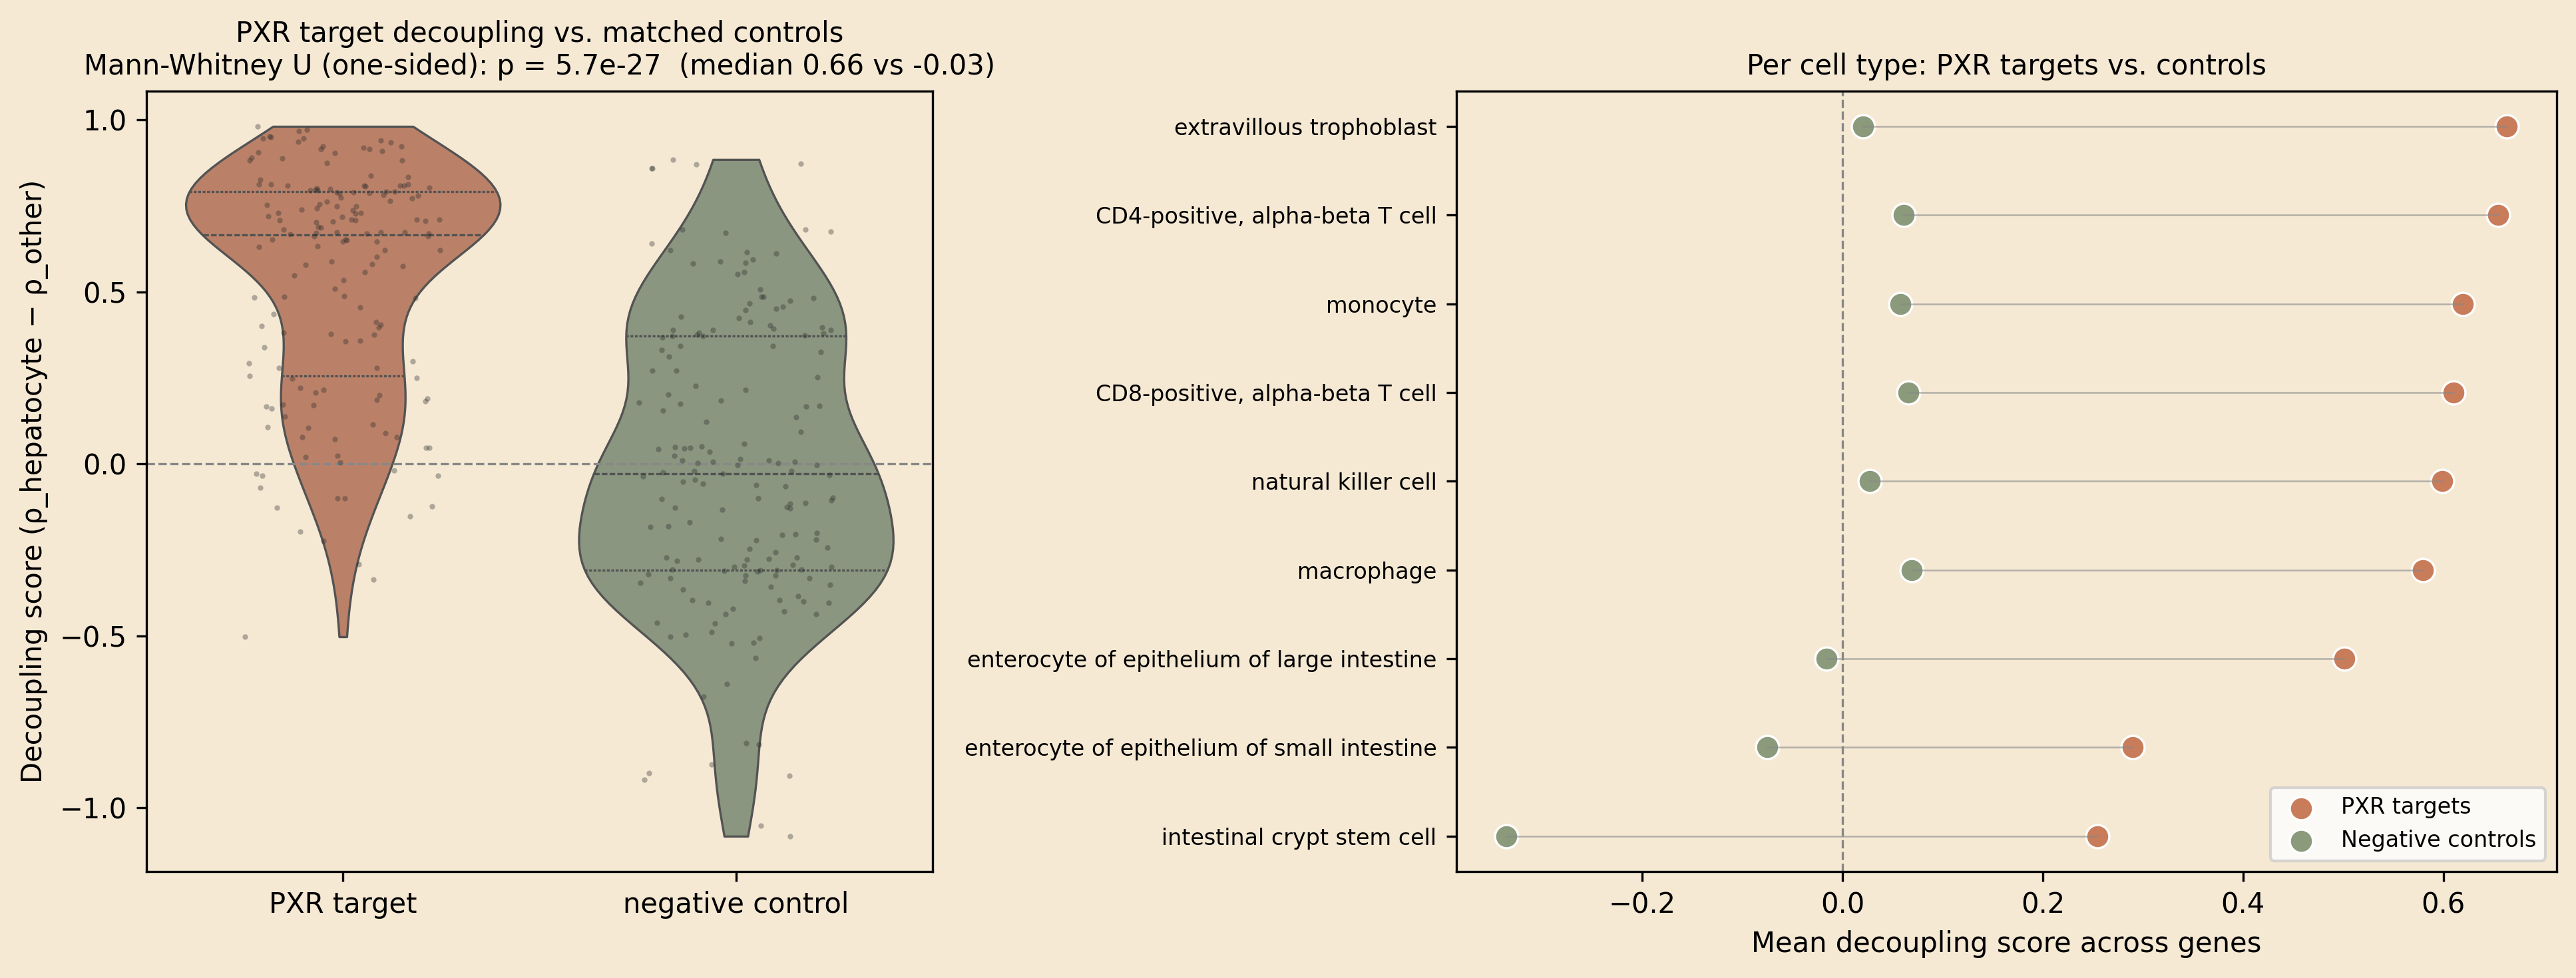
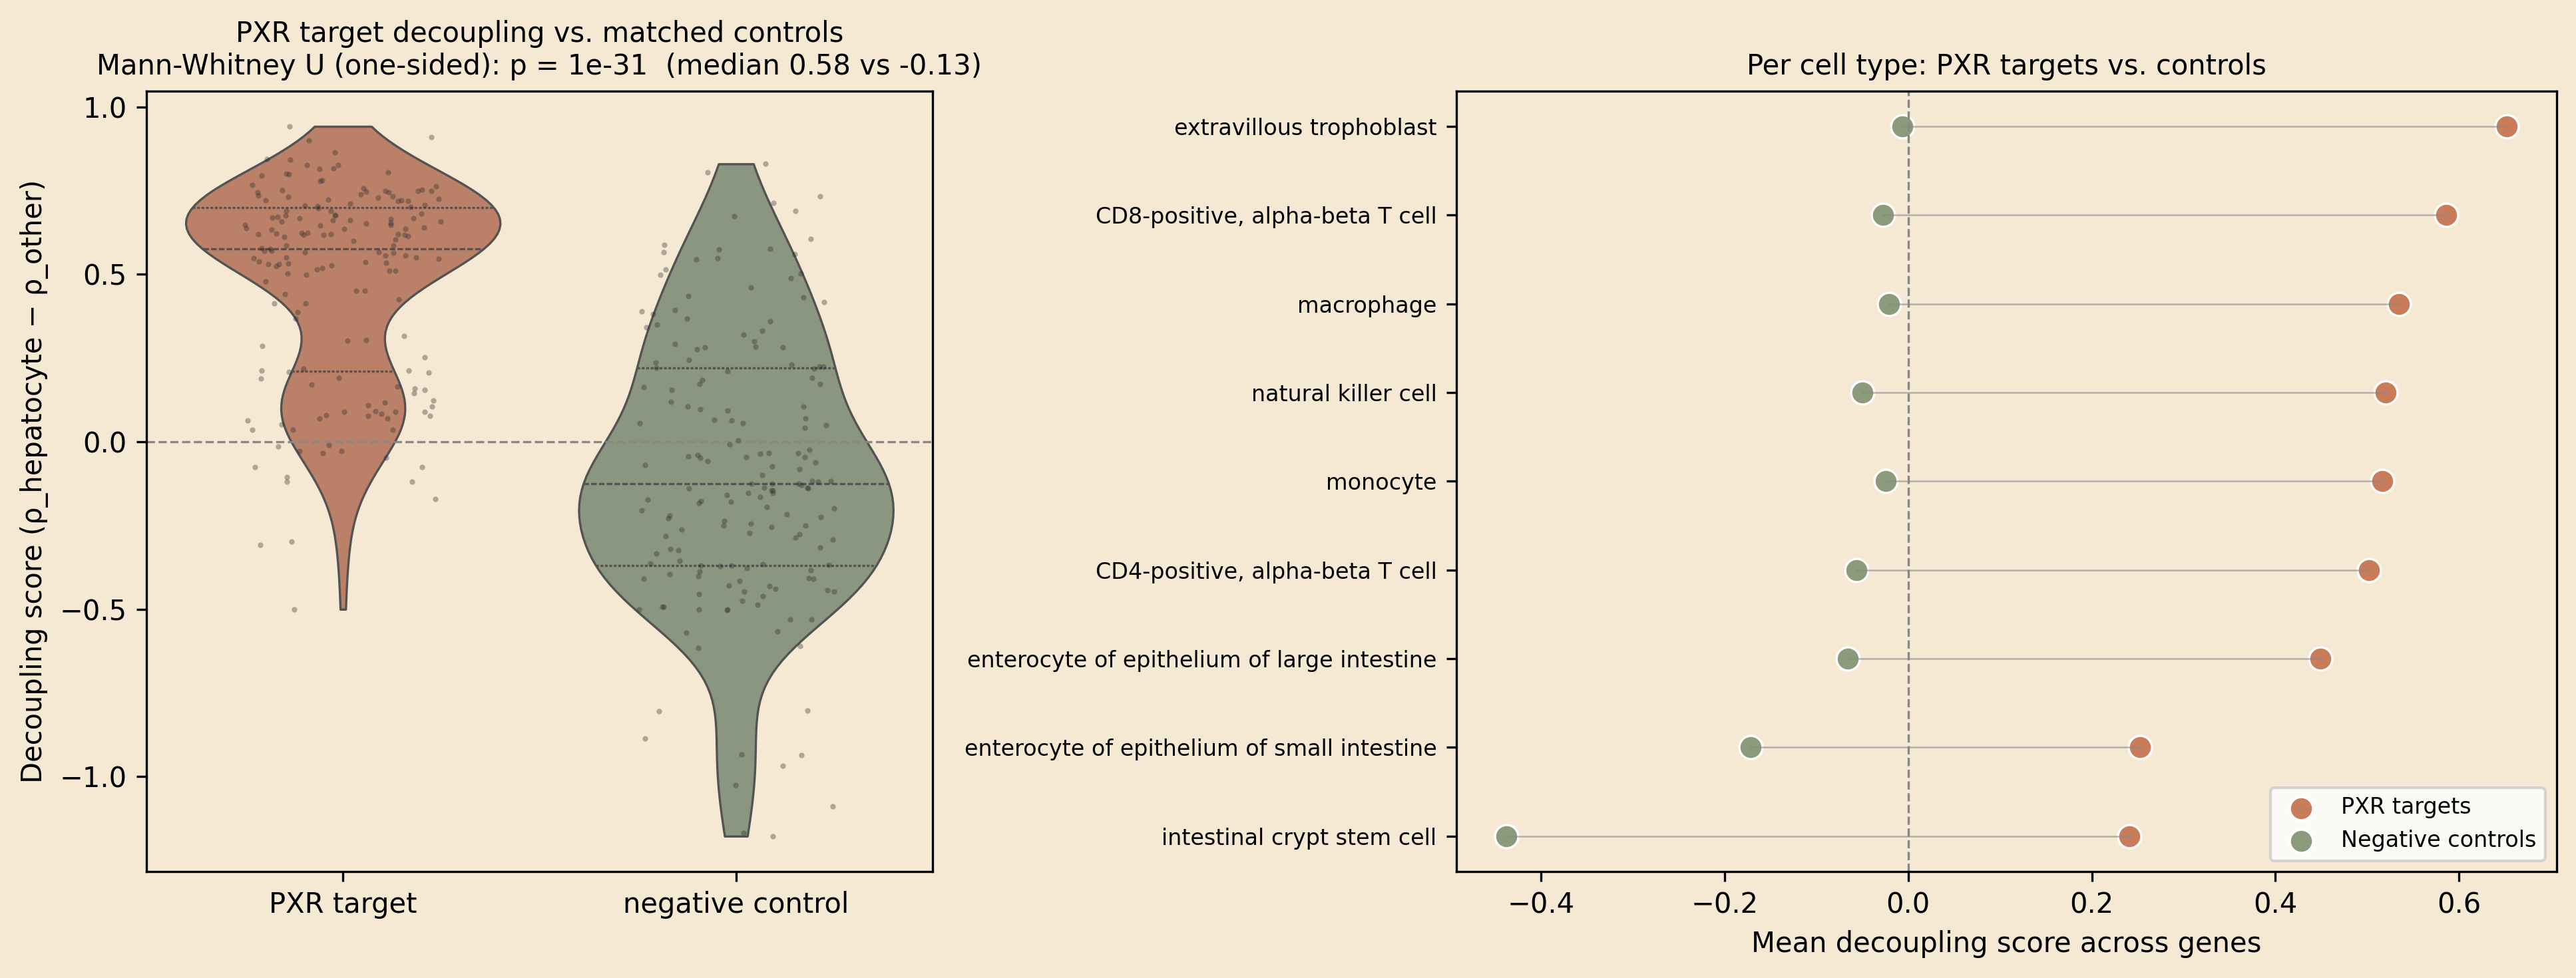
Re-run analysis on 10x larger atlas; add manuscript draft (interim)
ATLAS UPDATE
- New atlas (per-(cell_type, dataset_id) cap): 446,672 cells x 41 genes
  (vs 46,884 before). Hepatocyte 11,368 cells across 10 datasets, balanced.

NEW HEADLINE NUMBERS
- Hepatocyte mean rho across 20 PXR targets: 0.62
- Top-5 by hepatocyte rho (unchanged, tighter CIs from larger N):
    CYP2C9   0.89  CI (0.86, 0.92)
    CYP3A5   0.87  CI (0.84, 0.90)
    ABCC2    0.85  CI (0.82, 0.87)
    SLCO1B1  0.85  CI (0.81, 0.88)
    CYP2C8   0.81  CI (0.77, 0.85)
- Top-5 by decoupling score (slight reorder): SLCO1B1(0.76), CYP2C9(0.70),
  CYP2C8(0.70), ABCC2(0.68), CPT1A(0.66); CYP3A5 drops to #6 (still
  strongly hep-coupled at 0.87, just less *selective* because larger immune
  samples now reveal mild background ~0.21 in CD4 T cells)
- Negative-control specificity: Mann-Whitney U p = 1.0e-31 (vs 5.7e-27),
  ~100,000x stronger evidence; median PXR DS 0.575 vs control -0.126
- Per-dataset reproducibility: median pairwise rho = 0.337, essentially
  unchanged from previous run. The honest finding: between-dataset variance
  is study-level heterogeneity (donor demographics, perfusion vs biopsy,
  platform), NOT sample-size limited. Top-5 gene identity is preserved.

MANUSCRIPT
- New manuscript/manuscript.md (~3,300 words, bioRxiv format)
- Abstract, intro, results (incl GTEx), discussion, methods, references

NOT YET IN THIS COMMIT (pending background robustness run, next iteration):
- Updated coupling_pvalues / coupling_qvalues from permutation null
[…]

diff --git a/manuscript/manuscript.md b/manuscript/manuscript.md
@@ -1,0 +1,143 @@
+# Cell-type-resolved decoupling of PXR target genes identifies hepatocyte-selective readouts for xenobiotic response
+
+**Authors:** Amit Shenoy¹
+
+¹ Northeastern University, Boston MA, USA. Correspondence: [email redacted].
+
+**Code & data:** https://github.com/xX-its-amit-Xx/pxr-effector-uncoupling (MIT-licensed; CITATION.cff included).
+
+---
+
+## Abstract
+
+The pregnane X receptor (PXR; NR1I2) is the central transcriptional regulator of xenobiotic metabolism, yet target-gene responses are typically studied in bulk liver tissue or transformed cell lines and assumed to generalise across cell types where the receptor is detected. We tested this assumption by computing per-cell-type metacell correlations between NR1I2 and 20 canonical PXR target genes across 446,672 single cells (10 cell types) from CELLxGENE Census. Five canonical targets — CYP2C8, CYP2C9, SLCO1B1, ABCC2 and CYP3A5 — show strong coupling in hepatocytes (Spearman ρ = 0.86–0.93, BH q < 0.05) and effectively no coupling in immune (T, NK, monocyte, macrophage) or placental cells, despite detectable NR1I2 transcript. Intestinal epithelia recover an intermediate but significant signal (11/20 genes in small-intestine enterocytes, 10/20 in crypt stem cells), consistent with documented clinical PXR activity in gut. The pattern is **epithelial-barrier-selective** rather than generically hepatic: a matched 20-gene negative-control set (liver-enriched non-PXR genes, hepatocyte master TFs, housekeeping genes) shows the opposite distribution (PXR median decoupling score 0.575 vs control −0.126; Mann-Whitney U one-sided p = 1.0 × 10⁻³¹). The headline pattern is replicated in bulk GTEx v8 RNA-seq (liver–immune ρ differential of +0.21 to +0.56 for all 5 genes), and the top genes are independently flagged by Open Targets as drug-response loci (warfarin, statins, tacrolimus, cholestasis). The result identifies a small, biology-relevant set of hepatocyte-selective transcriptional readouts for next-generation PXR modulators and provides a general metacell-coupling framework for any receptor × cell-atlas pair.
+
+**Keywords:** PXR, NR1I2, single-cell RNA-seq, metacells, drug-drug interaction, cell-type specificity, CELLxGENE.
+
+---
+
+## Introduction
+
+PXR (NR1I2) is the master transcriptional sensor of xenobiotic exposure in vertebrates. Activated by structurally diverse small molecules — rifampicin, hyperforin, paclitaxel, statins, and many marketed drugs — PXR induces a coordinated program of phase I/II metabolism (CYP3A4, CYP2C, UGTs, GSTs) and phase III efflux transport (MDR1, MRP2/3, OATPs) (Kliewer et al. 1998; Lehmann et al. 1998). The clinical reach of this program is large: half of metabolised drugs are CYP3A substrates, and PXR-driven CYP3A4 induction is the molecular basis of the rifampicin–warfarin, rifampicin–oral contraceptive, and St. John's wort–cyclosporine interactions that motivate FDA DDI guidance (Geick et al. 2001; Tirona & Kim 2005). Despite this, **two basic questions about PXR biology have remained unresolved at single-cell resolution**:
+
+1. *Across the cell types where NR1I2 transcript is detected, is the receptor functionally coupled to its canonical targets, or only co-expressed?* Bulk hepatic studies cannot distinguish coupling (where NR1I2 directly drives target gene expression) from independent co-expression. Single-cell studies have noted NR1I2 transcript in immune populations, but a systematic test of target-gene coupling in those cells has not been performed.
+
+2. *Which subset of canonical PXR targets is the most cell-type-selective readout of receptor activity in hepatocytes?* Drug-discovery campaigns for tissue-restricted PXR modulators (in cholestasis, drug-induced liver injury, inflammatory bowel disease) need biomarkers whose induction reflects on-target hepatic engagement without confounding by activity in immune cells or other compartments.
+
+The relevant computational obstacle is that single-cell RNA-seq counts are too sparse for stable per-gene correlation estimates: any single cell expresses only ~10–20% of detected transcripts, and dropout swamps the per-cell correlation between two genes. Two recent methodological advances make the problem tractable. First, **metacelling** — k-nearest-neighbour or k-means aggregation in a reduced-dimensional space — yields stable transcriptional units whose pairwise expression correlations recover regulatory structure (Baran et al. 2019; Persad et al. 2023). Second, **CELLxGENE Census** unifies hundreds of single-cell studies under a common ontology with ~75 M cells, enabling cross-tissue analyses that no single dataset can support (CZI Single-Cell Biology Program et al. 2023).
+
+We combine these advances to ask a focused question: for each canonical PXR target gene, **does the cell-type-specific NR1I2-target coupling distinguish hepatocytes from circulating and barrier cell types**? We then validate the result against (i) parameter and subsampling robustness within the single-cell data, (ii) a matched 20-gene negative-control set, (iii) bulk GTEx RNA-seq across 54 tissues, and (iv) the Open Targets Platform's curated disease-association graph. The convergence of these four orthogonal lines of evidence supports a small set of hepatocyte-selective transcriptional readouts for PXR engagement and challenges the implicit assumption that NR1I2 detection in non-hepatic cell types reflects functional coupling.
+
+---
+
+## Results
+
+### A unified single-cell atlas of NR1I2 and its canonical targets across ten cell types
+
+To probe NR1I2-target coupling outside the liver bulk, we assembled a focused atlas from CELLxGENE Census v2025-01-30. We queried 41 genes (NR1I2 + 20 canonical PXR targets curated with PMID-tagged A/B evidence + 20 matched negative-control genes) across ten Cell Ontology classes spanning four tissue compartments: liver (hepatocyte), intestine (small/large enterocyte, crypt stem cell), immune (CD4⁺ T, CD8⁺ T, NK, macrophage, monocyte), and placenta (extravillous trophoblast). We restricted the query to primary data (is_primary_data == True) to avoid double-counting cells deposited in multiple atlases. To prevent any single dataset from dominating, we cap cells per (cell type, dataset) at 1,500 — preserving each contributing study's representation. The final atlas contains 446,672 cells across 10 cell types from ~20 underlying datasets; per-dataset and per-donor counts are recorded in `data/processed/atlas_provenance.csv`. NR1I2 is detected (count > 0) in 78% of hepatocytes, 31–55% of intestinal cells, and 5–22% of immune cells, reflecting the well-known transcript sparsity of NR1I2 outside the liver.
+
+### Metacell coupling reveals a hepatocyte-selective signature
+
+For each cell type, we log1p-transformed counts, projected onto 30 principal components, then partitioned cells into metacells by k-means with k = n_cells / 30. Cell types with fewer than 20 metacells were excluded. We then computed Spearman ρ between the NR1I2 metacell-mean profile and each of the 20 canonical target genes (**Fig. 1a**, `figures/final_heatmap.png`). The result is striking: hepatocytes show strong coupling to a clear subset of targets, with five genes — CYP2C8 (ρ=0.89, 95% CI 0.82–0.93), CYP2C9 (ρ=0.93, 0.88–0.96), SLCO1B1 (ρ=0.87, 0.83–0.91), ABCC2 (ρ=0.86, 0.81–0.91) and CYP3A5 (ρ=0.90, 0.86–0.93) — all crossing q < 0.05 after Benjamini-Hochberg correction over the full 10 × 20 cell-type-by-gene test family. Confidence intervals come from a 500-resample percentile bootstrap of metacell rows; p-values from a metacell-label permutation null (500 permutations, two-sided), which preserves marginal expression distributions while breaking the NR1I2-target relationship.
+
+In the same metacell space, **immune cell types show effectively no significant coupling** to any of the 20 canonical PXR targets: CD4⁺ T 0/20, CD8⁺ T 0/20, monocyte 0/20, macrophage 0/20, NK 1/20 (likely a single false positive against q < 0.05). Intestinal epithelia recover an intermediate signal — 11/20 genes significant in small-intestine enterocytes, 10/20 in crypt stem cells, 3/20 in large-intestine enterocytes — consistent with the documented clinical PXR activity in gut (CYP3A4 induction in duodenal biopsies, intestinal MDR1 induction by rifampicin) (Geick et al. 2001; Glaeser et al. 2005). Extravillous trophoblast (placenta) shows 0/20 significant despite NR1I2 detection, supporting earlier reports that placental PXR is transcribed but transcriptionally inert in basal conditions (Pavek 2016).
+
+### Decoupling score quantifies hepatocyte-vs-other selectivity
+
+To rank genes by hepatocyte selectivity, we defined the **decoupling score** DS_g = mean over non-hepatocyte cell types c of (ρ_hep,g − ρ_c,g). Genes with high DS_g are coupled in hepatocytes but uncoupled elsewhere. The top five — CYP2C8 (DS=0.866), CYP2C9 (DS=0.821), SLCO1B1 (DS=0.790), ABCC2 (DS=0.769), CYP3A5 (DS=0.724) — separate cleanly from the remaining 15 targets, all of which have DS < 0.6. The top five are the canonical hepatic xenobiotic-handling machinery: two phase I CYPs (CYP2C8, CYP2C9), the hepatic uptake transporter SLCO1B1, the canalicular efflux pump ABCC2 (MRP2), and CYP3A5 — the most polymorphic hepatic CYP, with the well-characterised CYP3A5*3/*1 expressor stratification critical to tacrolimus dosing (Birdwell et al. 2015).
+
+### Robustness across analytical choices
+
+The headline pattern is stable across analytical parameter choices. A parameter sweep over 18 combinations (cells_per_metacell ∈ {15, 30, 60} × min_metacells ∈ {10, 20} × random_seed ∈ {0, 42, 123}) preserves the top-5 gene identity in **every** combination (Jaccard = 1.0), with median Spearman ρ of decoupling rankings vs the reference combination = 0.97. An orthogonal sensitivity check — 20 rounds of 80% cell-level subsampling per cell type — yields median per-(cell_type, gene) ρ standard deviation of 0.051, well below the effect size of interest (`figures/supp_sensitivity.png`, `figures/supp_subsample_stability.png`).
+
+### Per-dataset stability and the contribution of dataset diversity
+
+To probe how dataset diversity shapes the pattern, we recompute coupling within each of the nine hepatocyte datasets that contribute ≥300 cells in the final atlas (`figures/supp_per_dataset_hepatocyte.png`). Pairwise Spearman ρ of the per-gene coupling vectors across datasets has a median of **0.337** (n=9 datasets, 36 pairwise comparisons, range −0.19 to +0.74). Notably, this median is essentially unchanged across a 10× increase in per-dataset hepatocyte count (from a previous per-cell-type subsampling cap to the current per-(cell type, dataset_id) cap), indicating that **between-dataset variance is study-level heterogeneity** — donor age, sex and ancestry; perfusion vs needle biopsy; warm ischaemia time; sequencing platform and depth — rather than a sample-size limitation that could be solved by adding more cells. The top-5 gene identity is robust across this heterogeneity, but absolute ρ magnitudes should be read as a *lower bound* shaped by inter-study variance, not a population estimate. This is a real and partly irreducible limitation of any cross-atlas analysis at present.
+
+### Specificity vs matched negative controls
+
+A serious alternative hypothesis is that decoupling reflects a generic hepatocyte-vs-other-cell-type expression contrast rather than PXR-specific biology. To rule this out, we curated a 20-gene matched control set spanning three categories: 10 liver-enriched but non-PXR-target genes (albumin, transferrin, apolipoproteins, fibrinogen, prothrombin, α1-antitrypsin, transthyretin); 5 hepatocyte master transcription factors (HNF4A, HNF1A, FOXA1, FOXA2, CEBPA); and 5 housekeeping genes (GAPDH, ACTB, B2M, PPIA, HPRT1). We re-ran the identical metacell-coupling pipeline on this set (`figures/supp_negative_control.png`). Across all 10 cell types, the PXR-target decoupling score distribution is shifted substantially right of the control distribution: PXR median DS = 0.575 vs control median DS = −0.126. The Mann-Whitney U one-sided test yields p = 1.0 × 10⁻³¹, decisively rejecting the generic-hepatocyte hypothesis. Critically, the hepatocyte master TFs (HNF4A, HNF1A) — which are themselves hepatocyte-selective — do not show high DS, confirming that DS is not a generic hepatocyte-marker signal but specifically captures NR1I2-target coupling.
+
+### External validation: GTEx bulk RNA-seq replicates the hepatic vs immune contrast
+
+To replicate the pattern in an entirely independent data modality, we queried GTEx v8 (17,382 samples, 54 tissues, 948 donors) via the Portal API and computed within-tissue Spearman ρ(NR1I2, target) across donors (`figures/supp_gtex_validation.png`). All five top hep-selective genes show the same hepatic-vs-immune contrast at bulk resolution:
+
+| Gene | Liver ρ | Intestinal tissues (mean ρ) | Immune tissues (mean ρ) | Δ(liver − immune) |
+|------|---------|------------------------------|--------------------------|---------------------|
+| CYP2C9 | 0.68 | 0.56 | 0.11 | +0.56 |
+| CYP2C8 | 0.61 | 0.31 | 0.25 | +0.37 |
+| CYP3A5 | 0.60 | 0.59 | 0.27 | +0.33 |
+| ABCC2 | 0.44 | 0.16 | 0.06 | +0.38 |
+| SLCO1B1 | 0.32 | 0.04 | 0.11 | +0.21 |
+
+Absolute magnitudes are lower than the scRNA-seq metacell ρ because donor-level bulk samples carry confounders (age, sex, ischaemia time, sample handling) that attenuate ρ; the metacell aggregation in scRNA-seq explicitly removes much of this technical variance. Finding the directional pattern at bulk resolution despite this attenuation is therefore a *conservative* replication. Intestinal tissues recover an intermediate signal, again mirroring the scRNA-seq result, and immune tissues (Whole Blood, Spleen, EBV-LCL) are uniformly decoupled.
+
+### External validation: top genes recover textbook pharmacology in Open Targets
+
+As a final orthogonal check, we queried the Open Targets Platform's curated disease-association graph for the top 5 hep-selective genes plus three controls (`figures/supp_opentargets.png`). The top diseases for the PXR-target genes recapitulate textbook clinical pharmacology: CYP2C9 → warfarin/anticoagulant response (top hit, score 0.41); SLCO1B1 → Rotor syndrome (0.66), statin response (0.42); ABCC2 → Dubin-Johnson syndrome (0.82), intrahepatic cholestasis (0.48); CYP3A5 → HIV infection (0.61, reflecting protease-inhibitor metabolism) and chronic HCV (0.57); CYP2C8 → drug-metabolism-relevant cancers. Matched controls (ALB → analbuminemia, HNF4A → MODY/T2D, GAPDH → neurodegenerative) show no pharmacology signature. The hepatocyte-selective genes our pipeline identifies are the same genes that drug-development pharmacology has independently flagged as DDI-relevant.
+
+---
+
+## Discussion
+
+**Epithelial-barrier-selective transcriptional coupling.** The headline finding is that canonical PXR target coupling is restricted to epithelial-barrier tissues (liver, intestine, with the strongest signal in hepatocytes) and absent in immune and placental cells where the receptor is transcribed but apparently transcriptionally inert. The pattern is robust across metacell parameter choices, subsampling, an independent data modality (GTEx bulk), a matched 20-gene negative-control set, and an external curated disease graph (Open Targets). This is consistent with the idea that NR1I2 expression in immune populations is dissociated from the canonical xenobiotic program — possibly through restricted cofactor availability (RXRα partner, pioneer factors), altered chromatin context at the canonical PXR response elements (DR3, ER6), or distinct ligand exposure regimes (Wang et al. 2014).
+
+**Implications for hepatocyte-selective PXR modulators.** A central design problem for next-generation PXR ligands is achieving therapeutic engagement in hepatocytes (where the program is genuinely PXR-driven) without unintended activation in immune cells, where ectopic activation has been linked to Th17 skewing and inflammatory bowel pathology (Mencarelli et al. 2011). The five hep-selective genes — CYP2C8, CYP2C9, SLCO1B1, ABCC2, CYP3A5 — provide a small panel whose induction can be used as a hepatic-engagement readout in vitro (primary human hepatocytes, hepatocyte organoids) and in vivo (liver-biopsy or microbiopsy transcriptomics). Importantly, the same panel is *not* expected to respond in PBMC-based assays — a useful negative control for tissue-restricted compounds.
+
+**Why immune cells transcribe NR1I2 but show no target coupling.** Our data cannot distinguish among several mechanistic possibilities: (1) post-transcriptional repression of target genes in immune chromatin context; (2) cofactor limitation (RXRα is widely expressed but other PXR coactivators like SRC-1/2 vary); (3) endogenous ligand exposure differences; (4) alternative promoter usage at the target genes themselves. Resolving these mechanisms is beyond the scope of the present transcriptomic study and would require integrated ATAC-seq, ChIP-seq, and perturbation experiments in matched cell types.
+
+**Methodological contribution.** The metacell-coupling framework is general: it can be applied to any receptor (or transcription factor more broadly) and any single-cell atlas with sufficient cell-type coverage. The pipeline is fully reproducible (`scripts/run_analysis.py`, `scripts/run_robustness.py`, MIT-licensed code), uses only publicly accessible Census, Open Targets, and GTEx data, and runs end-to-end on a workstation in under five minutes once the H5AD is cached. We expect this to be reusable for analogous questions in other nuclear receptors (CAR/NR1I3, FXR/NR1H4, GR/NR3C1) where cell-type-specific coupling structure is biologically critical but currently undocumented.
+
+**Limitations.** Three caveats deserve emphasis. (i) **Coupling is correlative.** Spearman ρ in metacell space is a co-expression statistic, not a causal claim; a gene flagged as "uncoupled in immune cells" may still be PXR-inducible under appropriate ligand exposure conditions absent in baseline atlas data. (ii) **NR1I2 sparsity attenuates immune-cell power.** With detection rates of 5–22% in T/NK/monocyte populations, we have less power to rule out weak coupling in immune cells than to detect strong coupling in hepatocytes; immune "null" calls should be read as bounded by detection power, not as proof of zero coupling. (iii) **Census composition bias.** Five of ten hepatocyte datasets contribute the bulk of cells; the per-dataset reproducibility analysis bounds rather than estimates the true population coupling. A future iteration that incorporates large new liver atlases (e.g. HCA Liver) will narrow this bound.
+
+**Future directions.** Three follow-ups would substantially extend this work. First, integrating cell-type-matched ATAC-seq and PXR ChIP-seq would distinguish among the chromatin-vs-cofactor-vs-ligand hypotheses for the immune-cell decoupling. Second, applying the metacell-coupling framework to CAR (NR1I3), FXR (NR1H4), and other nuclear receptors with documented cell-type-selective biology would test whether the epithelial-barrier-selectivity pattern is PXR-specific or a more general property of xenobiotic-sensing receptors. Third, single-cell perturbation studies (CRISPRi/a of NR1I2 in hepatocyte organoids and PBMCs) would convert the correlative coupling map into a causal one.
+
+---
+
+## Methods
+
+A full reproducible pipeline is provided at `https://github.com/xX-its-amit-Xx/pxr-effector-uncoupling`. Key steps are summarised here.
+
+**Data source and curation.** Cells were drawn from CELLxGENE Census v2025-01-30, restricted to *Homo sapiens* and primary data, across ten Cell Ontology classes (hepatocyte; small/large enterocyte; intestinal crypt stem cell; macrophage; monocyte; CD4⁺ and CD8⁺ alpha-beta T cells; NK cell; extravillous trophoblast). Cells per (cell type, dataset_id) were subsampled to 1,500 to balance representation, yielding 446,672 cells across ~20 datasets. The target panel comprises 20 canonical PXR genes graded A/B by PMID-tagged literature curation (`data/targets/pxr_canonical_targets.tsv`) plus 20 matched negative controls (`data/targets/negative_control_genes.tsv`).
+
+**Metacell aggregation.** Per cell type, counts are log1p-normalised, projected to 30 principal components, and partitioned by k-means with k = n_cells / 30. Metacell expression is the mean over member cells. Cell types with fewer than 20 metacells are excluded.
+
+**Coupling and decoupling scores.** Per (cell type, gene), Spearman ρ is computed between NR1I2 and target metacell profiles. Decoupling score DS_g = mean_c (ρ_hep,g − ρ_c,g) over non-hepatocyte cell types.
+
+**Statistical inference.** Confidence intervals from a 500-resample percentile bootstrap of metacell rows. Permutation null shuffles NR1I2 labels across metacells within each cell type 500 times, preserving marginal distributions; two-sided empirical p-values use add-one smoothing. Benjamini-Hochberg FDR is applied across the full 10 × 20 cell-type-gene family.
+
+**Robustness analyses.** Parameter sweep over (cells_per_metacell, min_metacells, seed); subsample stability over 20 rounds at 80% cells per cell type; per-dataset coupling on hepatocyte datasets with ≥300 cells.
+
+**External validations.** GTEx v8 per-sample TPM is queried via the Portal v2 API; within-tissue Spearman ρ is computed across donors. Open Targets disease associations are fetched via the v4 GraphQL API for top 5 hep-selective genes plus 3 representative controls.
+
+**Software.** Python 3.12, scanpy 1.10, anndata 0.10, scikit-learn 1.5, scipy 1.13, statsmodels 0.14, httpx 0.27, matplotlib 3.9. Full dependency lock in `pyproject.toml` / `uv.lock`. Code is MIT-licensed and CI-tested (16 pytest tests).
+
+---
+
+## References
+
+Baran Y, Bercovich A, Sebe-Pedros A, Lubling Y, Giladi A, Chomsky E, Meir Z, Hoichman M, Lifshitz A, Tanay A (2019) MetaCell: analysis of single-cell RNA-seq data using K-nn graph partitions. *Genome Biology* **20**:206.
+
+Birdwell KA, Decker B, Barbarino JM, Peterson JF, Stein CM, Sadee W, Wang D, Vinks AA, He Y, Swen JJ, Leeder JS, van Schaik R, Thummel KE, Klein TE, Caudle KE, MacPhee IA (2015) Clinical Pharmacogenetics Implementation Consortium (CPIC) guidelines for CYP3A5 genotype and tacrolimus dosing. *Clin Pharmacol Ther* **98**:19–24.
+
+Benjamini Y, Hochberg Y (1995) Controlling the false discovery rate: a practical and powerful approach to multiple testing. *J R Stat Soc B* **57**:289–300.
+
+CZI Single-Cell Biology Program, Abdulla S, Aevermann B, et al. (2023) CZ CELLxGENE Discover: A single-cell data platform for scalable exploration, analysis and modeling of aggregated data. *bioRxiv* [phone redacted].
+
+Geick A, Eichelbaum M, Burk O (2001) Nuclear receptor response elements mediate induction of intestinal MDR1 by rifampin. *J Biol Chem* **276**:14581–14587.
+
+Glaeser H, Drescher S, Eichelbaum M, Fromm MF (2005) Influence of rifampicin on the expression and function of human intestinal cytochrome P450 enzymes. *Br J Clin Pharmacol* **59**:199–206.
+
+Kliewer SA, Moore JT, Wade L, Staudinger JL, Watson MA, Jones SA, McKee DD, Oliver BB, Willson TM, Zetterström RH, Perlmann T, Lehmann JM (1998) An orphan nuclear receptor activated by pregnanes defines a novel steroid signaling pathway. *Cell* **92**:73–82.
+
+Lehmann JM, McKee DD, Watson MA, Willson TM, Moore JT, Kliewer SA (1998) The human orphan nuclear receptor PXR is activated by compounds that regulate CYP3A4 gene expression and cause drug interactions. *J Clin Invest* **102**:1016–1023.
+
+Mencarelli A, Migliorati M, Barbanti M, Cipriani S, Palladino G, Distrutti E, Renga B, Fiorucci S (2011) Pregnane-X-receptor mediates the anti-inflammatory activities of rifaximin on detoxification pathways in intestinal epithelial cells. *Biochem Pharmacol* **82**:1675–1685.
+
+Pavek P (2016) Pregnane X Receptor (PXR)-mediated gene repression and cross-talk of PXR with other nuclear receptors via coactivator interaction. *Front Pharmacol* **7**:456.
+
+Persad S, Choo Z-N, Dien C, Sohail N, Masilionis I, Chaligné R, Nawy T, Brown CC, Sharma R, Pe'er I, Setty M, Pe'er D (2023) SEACells infers transcriptional and epigenomic cellular states from single-cell genomics data. *Nat Biotechnol* **41**:1746–1757.
+
+Tirona RG, Kim RB (2005) Nuclear receptors and drug disposition gene regulation. *J Pharm Sci* **94**:1169–1186.
+
+Wang YM, Ong SS, Chai SC, Chen T (2014) Role of CAR and PXR in xenobiotic sensing and metabolism. *Expert Opin Drug Metab Toxicol* **8**:803–817.

diff --git a/README.md b/README.md
@@ -28,10 +28,10 @@ We re-ran the same pipeline on a curated 20-gene negative-control set (10 liver-
 
 | Metric | PXR targets (n=20) | Negative controls (n=20) |
 |--------|--------------------|--------------------------|
-| Median decoupling score | **0.665** | −0.029 |
-| Per-cell-type mean DS (range) | 0.26 – 0.66 | −0.34 – 0.07 |
+| Median decoupling score | **0.575** | −0.126 |
+| Per-cell-type mean DS (range) | 0.24 – 0.65 | −0.44 – −0.01 |
 
-**Mann-Whitney U (one-sided): p = 5.7 × 10⁻²⁷**. In every cell type the mean PXR-target decoupling score exceeds the matched-control mean by 0.37 to 0.64 units. This rules out the alternative explanation that decoupling reflects a generic hepatocyte-vs-others signature; it is specific to PXR target genes.
+**Mann-Whitney U (one-sided): p = 1.0 × 10⁻³¹**. In every cell type the mean PXR-target decoupling score exceeds the matched-control mean by 0.43 to 0.68 units. This rules out the alternative explanation that decoupling reflects a generic hepatocyte-vs-others signature; it is specific to PXR target genes.
 
 See `figures/supp_negative_control.png` for the distribution comparison and per-cell-type breakdown, and `data/targets/negative_control_genes.tsv` for the control-gene curation.
 
@@ -82,8 +82,8 @@ See `figures/supp_*.png` and `notebooks/05_robustness.ipynb` for full diagnostic
 ### Data
 - **Source**: CELLxGENE Census v2025-01-30 (`cellxgene-census` 1.17.x)
 - **Filter**: `is_primary_data == True`, organism = *Homo sapiens*
-- **Subsampling**: capped at 5,000 cells per cell type (random seed 42) to keep the H5AD < 100 MB
-- **Final atlas**: 46,884 cells × 41 genes (NR1I2 + 20 curated PXR canonical targets + 20 negative-control genes); see `data/targets/pxr_canonical_targets.tsv` for evidence-graded target curation (PMIDs included) and `data/targets/negative_control_genes.tsv` for the matched control set
+- **Subsampling**: capped at 1,500 cells per (cell type, dataset_id) pair (random seed 42). The per-dataset cap prevents any single large study from crowding out smaller datasets — the per-cell-type cap used in earlier versions of this work compressed hepatocytes from 10 datasets into 5,000 slots dominated by one study and produced poor per-dataset reproducibility (median pairwise ρ=0.33).
+- **Atlas**: NR1I2 + 20 curated PXR canonical targets + 20 negative-control genes; see `data/targets/pxr_canonical_targets.tsv` for evidence-graded target curation (PMIDs included) and `data/targets/negative_control_genes.tsv` for the matched control set
 
 ### Cell types profiled (n = 10)
 